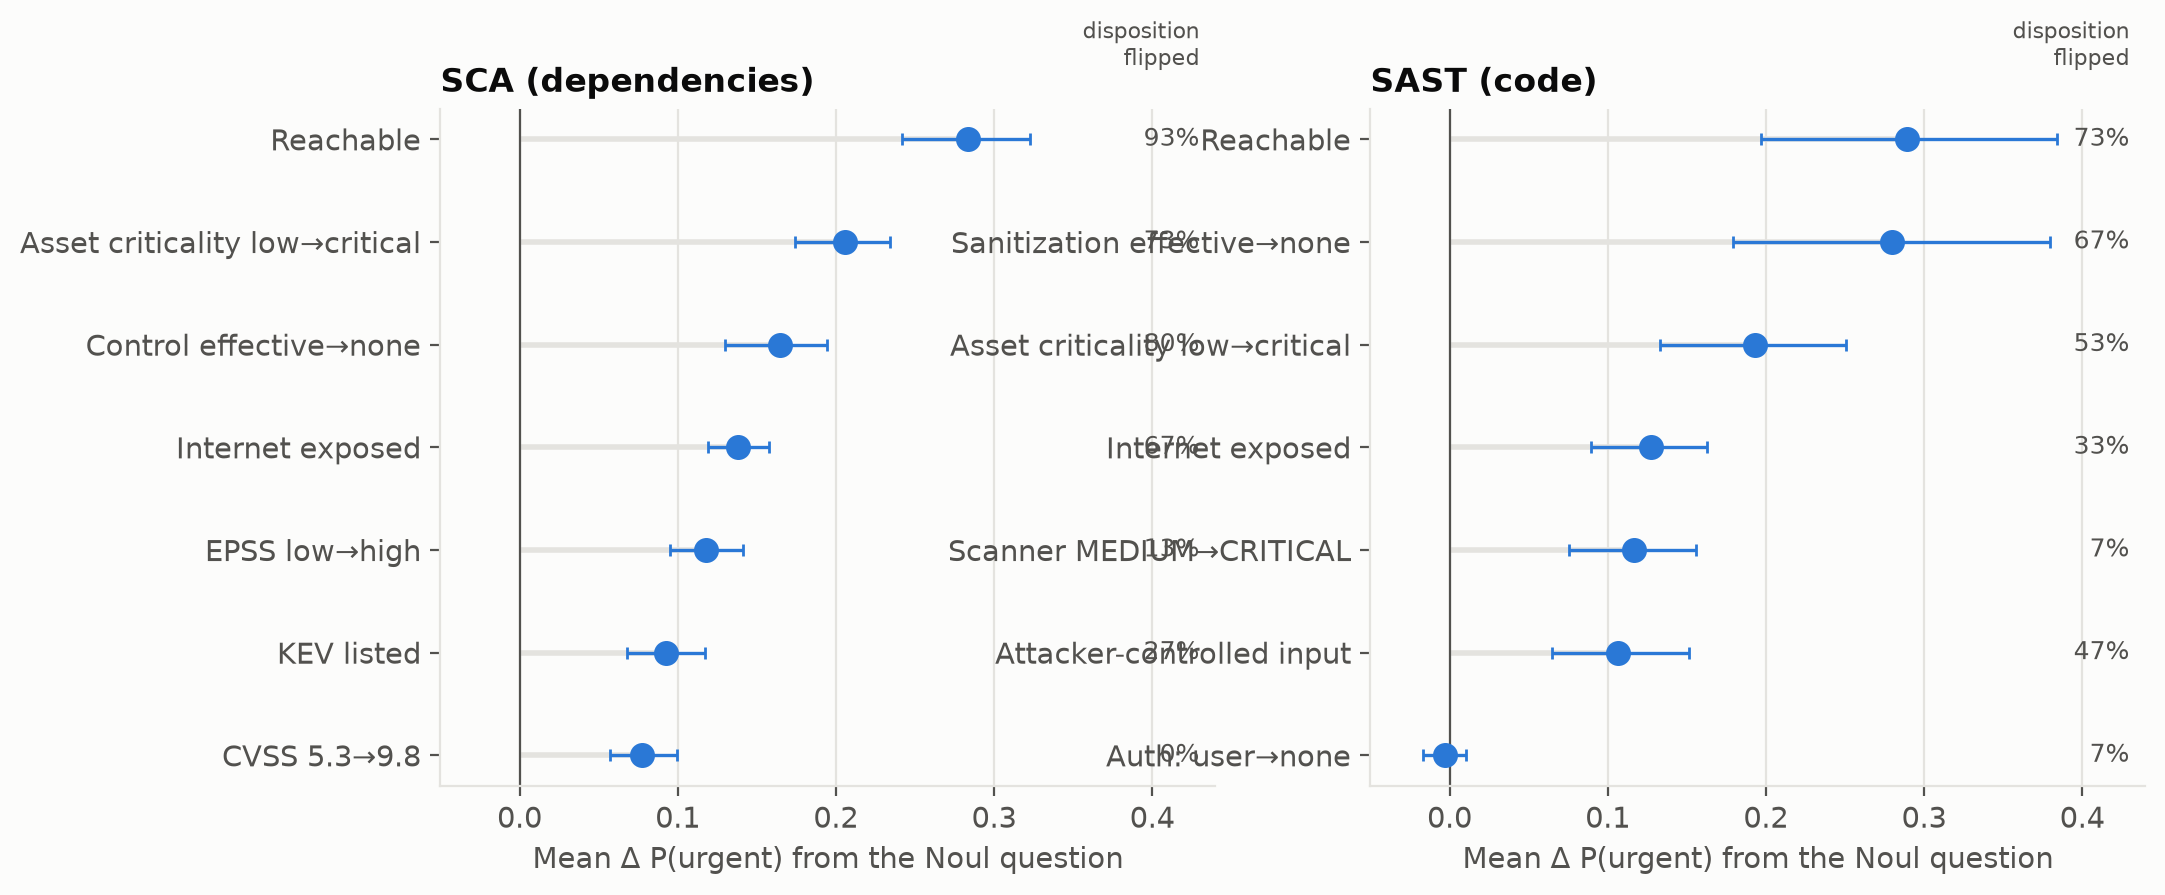
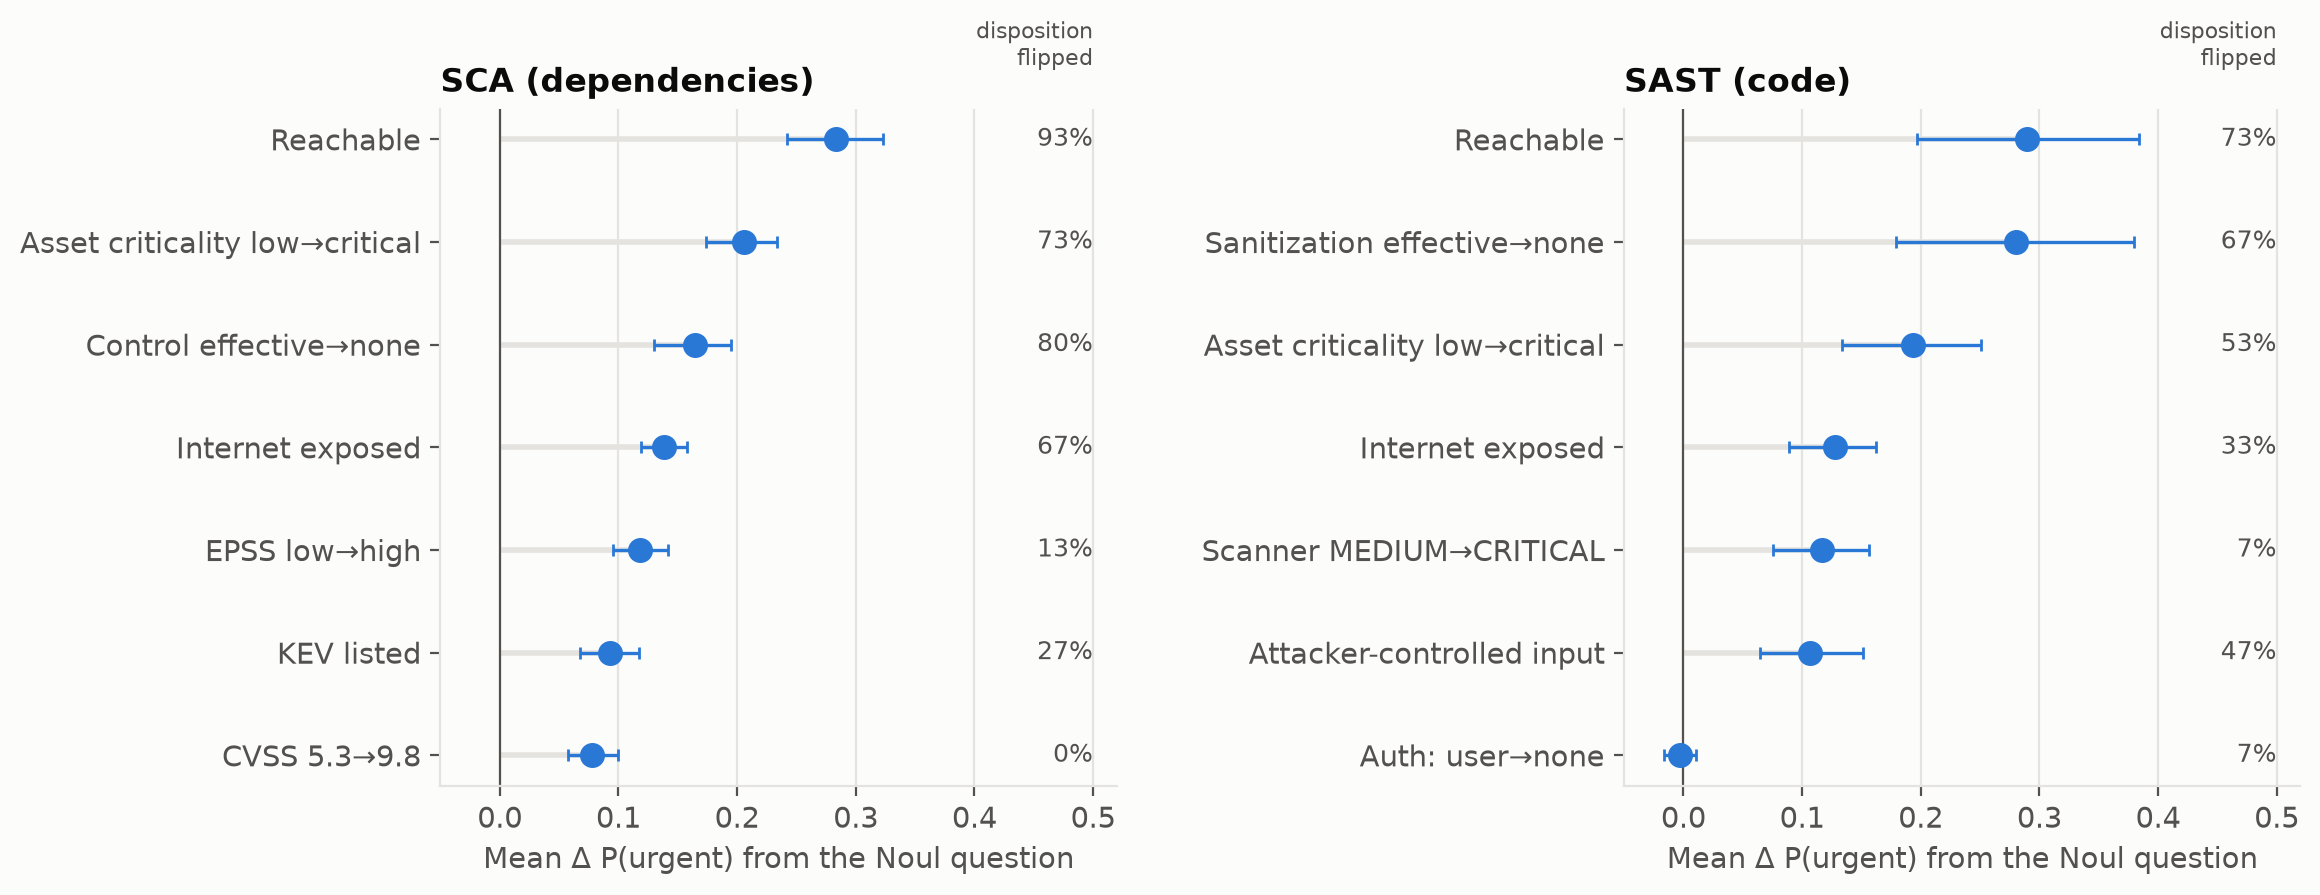
fig4: stop flip-rate labels overlapping the SAST panel; add repo URL to article

diff --git a/scripts/make_figures.py b/scripts/make_figures.py
@@ -208,7 +208,8 @@ for ax, dom in zip(axes, ["sca", "sast"]):
 axes[0].legend(loc="lower center", bbox_to_anchor=(1.1, -0.32), ncol=2)
 save(fig, "fig3_attribute_sensitivity_score")
 
-fig, axes = plt.subplots(1, 2, figsize=(11, 4.4))
+fig, axes = plt.subplots(1, 2, figsize=(12, 4.4))
+fig.subplots_adjust(wspace=0.75)
 for ax, dom in zip(axes, ["sca", "sast"]):
     d = cf[cf.domain == dom].sort_values("mean_d_noul")
     y = np.arange(len(d))
@@ -225,11 +226,11 @@ for ax, dom in zip(axes, ["sca", "sast"]):
         zorder=3,
     )
     for yv, fr in zip(y, d.choice_flip_rate):
-        ax.text(0.43, yv, f"{fr:.0%}", va="center", ha="right", fontsize=9, color=INK2)
-    ax.text(0.43, len(d) - 0.35, "disposition\nflipped", ha="right", va="bottom", fontsize=8, color=INK2)
+        ax.text(0.5, yv, f"{fr:.0%}", va="center", ha="right", fontsize=9, color=INK2)
+    ax.text(0.5, len(d) - 0.35, "disposition\nflipped", ha="right", va="bottom", fontsize=8, color=INK2)
     ax.set_yticks(y, [NAMES[a] for a in d.attribute])
     ax.axvline(0, color=INK2, lw=0.8)
-    ax.set_xlim(-0.05, 0.44)
+    ax.set_xlim(-0.05, 0.52)
     ax.set_xlabel("Mean Δ P(urgent) from the Noul question")
     ax.set_title(DOM[dom])
     ax.grid(axis="y", visible=False)

diff --git a/blog/jev-security-prioritization.md b/blog/jev-security-prioritization.md
@@ -587,11 +587,13 @@ Decision support, yes. Automatic remediation or suppression, no.
 
 ## 16. Reproducing the experiment
 
-Everything is in the repo, including every raw response, so you can recompute every number
+Everything is in the
+[repo](https://github.com/san3ncrypt3d/jev-security-prioritization), including every raw response, so you can recompute every number
 without an API key.
 
 ```bash
-git clone <repo-url> && cd <repo>
+git clone https://github.com/san3ncrypt3d/jev-security-prioritization.git
+cd jev-security-prioritization
 uv venv .venv && source .venv/bin/activate
 uv pip install -e '.[dev]' tabulate
 
